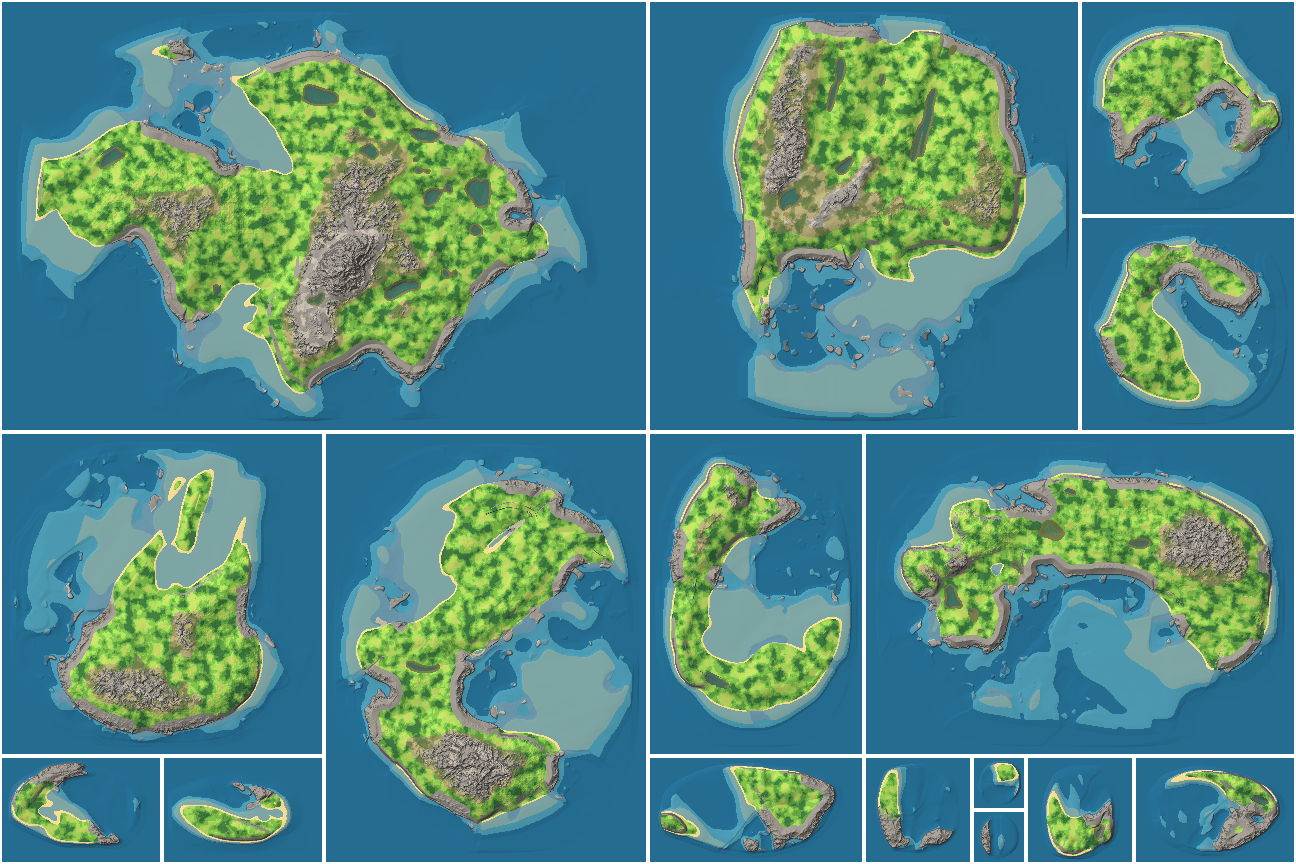
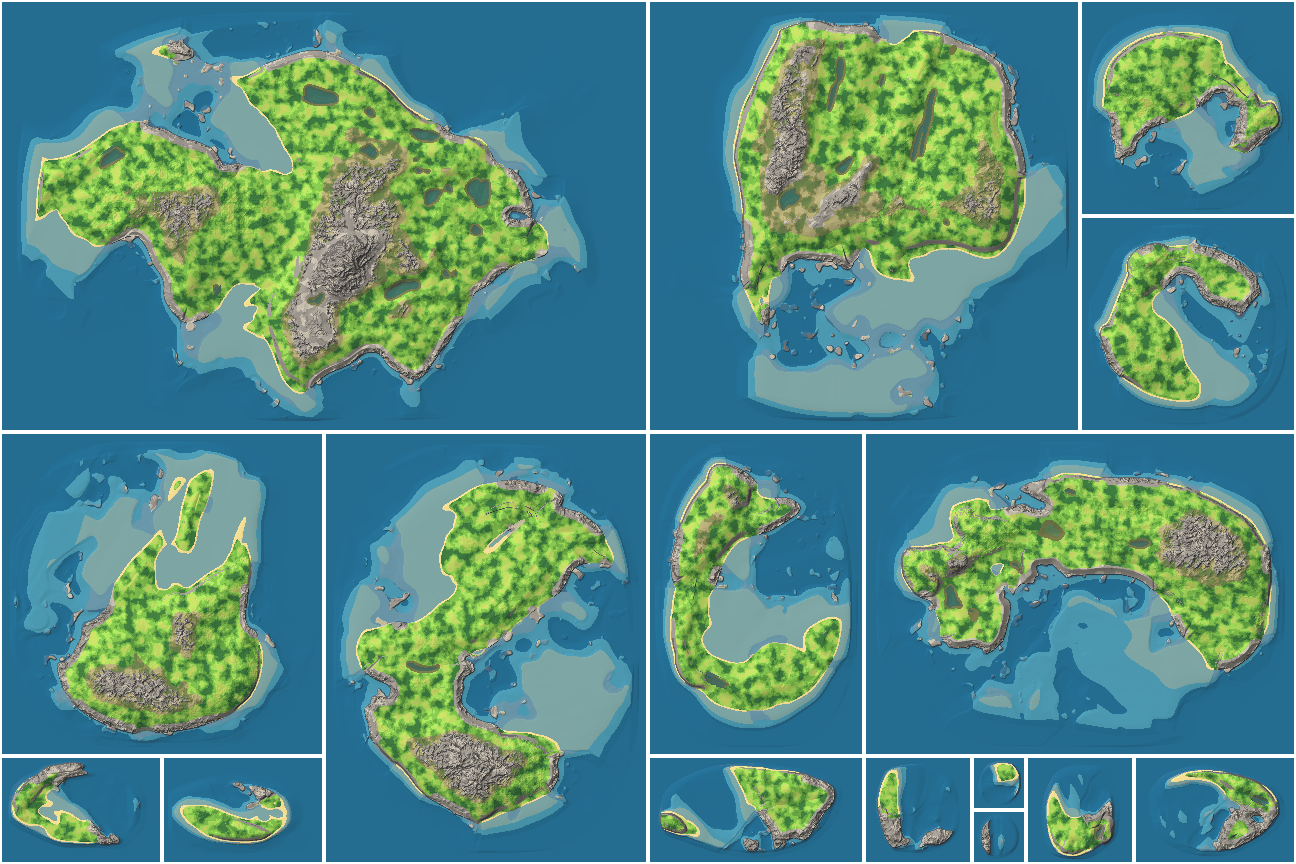
One spray for paint and relief, and crags that respect what stands near them
Review of the crag work found its seams, and this closes them:

The spray zone was derived twice — the palette scaled the reach by the
shore character with a wandered edge, the crag pass scaled amplitude
over the full reach with neither — so rock forms stood under grass
paint and the two could drift further with any retune. Both now read
one function, the paint as a threshold over the same weight the relief
carries, and the crag pass's mountain band reads the same wandered
height the parcel rows read. The painted collar also stopped being one
flat material: bare is bare, so it draws from the mountain row.

The cleft could out-cut the lake system's budget — its relief band is
sized to the detail stack alone — leaving ground below a tarn's
surface, drawn as standing water outside the basin. A tarn's surface
now caps the cut the way the sea's shore band does, and a drowned bank
is not reworked at all.

The strata's hard floor() was a true discontinuity, invisible to the
one-tile central differences behind the normals — paint and plants
read "flat" at the very lip of a sheer step. The tread now climbs
through a finite riser that leans with the ground under it.

The cleft's headroom share is a named constant, a new test pins the
shore-band margin the crag pass promises, and the docs that described
one consumer's shape as both's are rewritten. Digests re-recorded; the
layout digest is untouched; the collage redrawn.

diff --git a/crates/world/src/terrain.rs b/crates/world/src/terrain.rs
@@ -528,9 +528,8 @@ const GRAIN_RELIEF: f32 = 0.5;
 // and the whole part-terraced into strata — at amplitudes that compete with
 // the hills they stand on.
 //
-// See [`TerrainGenerator::crags`] for how the parts compose, and the
-// waterline guarantees ([`SHORE_TOP`] fade, bounded clefts, terraces that
-// cannot cross zero) that keep the coast the landform's — the lesson
+// See [`TerrainGenerator::crags`] for how the parts compose and the
+// waterline guarantees that keep the coast the landform's — the lesson
 // [`APRON_DRY`] already paid for.
 
 /// Wavelength of the crag backbone, in metres — the ridged field the spires
@@ -554,8 +553,13 @@ const CRAG_SHARP: f32 = 2.6;
 /// fine bands: a form shorter than the hills cannot contrast with them.
 const CRAG_SPIRE: f32 = 11.0;
 /// How deep the clefts between spires cut, in metres — bounded at each point
-/// by the headroom above the shore band, so no cleft ever reaches the water.
+/// by [`CRAG_HEADROOM`] of the headroom above the shore band, so no cleft
+/// ever reaches the water.
 const CRAG_CLEFT: f32 = 7.0;
+/// The share of that headroom a cleft may spend. The margin the remainder
+/// leaves is small and nothing downstream would notice a retune eating it,
+/// which is why `crags_never_reach_the_shore_band` pins it.
+const CRAG_HEADROOM: f32 = 0.8;
 /// The strata: bare rock is pulled part of the way onto terraces this many
 /// metres apart. Horizontal bedding is the one regularity real rock wears,
 /// and with flat-shaded facets a level tread against a sheer riser is the
@@ -564,6 +568,14 @@ const CRAG_CLEFT: f32 = 7.0;
 const CRAG_STEP: f32 = 2.7;
 /// How far toward those terraces the ground is pulled, 0 none to 1 fully.
 const CRAG_STRATA: f32 = 0.65;
+/// The slice of each strata interval the riser climbs through, as a share of
+/// [`CRAG_STEP`]. A hard `floor` was tried and is a true discontinuity, which
+/// the one-tile central differences behind [`TerrainGenerator::normal`]
+/// cannot see — so paint and plants read "flat" at the very lip of a sheer
+/// step. A finite riser leans with the ground underneath it instead: broad
+/// and visible where the backbone is gentle, near-sheer where it is already
+/// steep and painted rock anyway.
+const CRAG_RISER: f32 = 0.3;
 /// Height above which the crag pass is fully faded in, in metres. The fade
 /// starts at [`SHORE_TOP`], so the waterline and the drawn shore stay the
 /// landform's. Long on purpose: at 4.0 the first metres behind a rocky
@@ -756,7 +768,10 @@ const COAST_GRID: f32 = 4.0;
 /// rock is a good deal smaller than this; much below it and they stop being
 /// wide enough to make a facet.
 const SKERRY_SCALE: f32 = 34.0;
-/// How far a skerry stands out of the water, in metres.
+/// How far a skerry stands out of the water, in metres, as the skerry pass
+/// itself leaves it. The crag pass runs after and builds on the barest of
+/// them — the sea's rocks get the same treatment as everything else the
+/// spray strips — so the tallest stacks finish near twice this.
 const SKERRY_HEIGHT: f32 = 2.5;
 
 /// Height, in metres, up to which ground is drawn as shore rather than as what
@@ -765,27 +780,27 @@ const SKERRY_HEIGHT: f32 = 2.5;
 /// band of colour up the rocky shores and the cliffs as well.
 const SHORE_TOP: f32 = 0.6;
 
-/// How far in from the waterline the sea keeps the ground bare, in metres,
-/// where the coast is at its most exposed. The shore character scales it:
-/// nothing in from a beach, the full reach in from a cliff. Height is what the
-/// bands above [`SHORE_TOP`] read, so distance is what this has to be — the
-/// same rule that holds the mountains off the coast holds the grass off the
-/// spray, and a scrap of land whose every point is within reach goes bare
-/// *everywhere*, which is what keeps a skerry's flat top and a one-chunk
-/// islet from coming out as lawns standing in the sea.
-///
-/// The character's say is squared before it scales the reach: read linearly,
-/// every middling-rocky stretch wore a collar half this wide and a big island
-/// came out sitting in a stone bowl. Squared, the ordinary rocky shore keeps
-/// a few metres of bare lip and the full reach is kept for the coasts that
-/// have actually earned a cliff.
+/// How far in from the waterline the sea has any say over what grows, in
+/// metres. Height is what the bands above [`SHORE_TOP`] answer to, so
+/// distance is what the spray has to be — the rule that holds the mountains
+/// off the coast, holding the grass off the spray — and a scrap of land
+/// whose every point is within reach is sprayed *everywhere*, which is what
+/// keeps a skerry's flat top and a one-chunk islet from coming out as lawns
+/// standing in the sea. Read only through [`TerrainGenerator::sprayed`].
 const SPRAY_REACH: f32 = 30.0;
 
-/// How far the spray band's inland edge wanders off the pure distance, in
-/// metres — the same job [`BAND_WANDER`] does for the treeline, and driven by
-/// the same field, because a contour parallel to the coast is as mechanical a
-/// line as a level one.
+/// How far the spray's edge wanders off the pure distance, in metres — the
+/// same job [`BAND_WANDER`] does for the treeline, and driven by the same
+/// field, because a contour parallel to the coast is as mechanical a line as
+/// a level one.
 const SPRAY_WANDER: f32 = 10.0;
+
+/// Where the spray weight is cut into painted bare rock — the paint's
+/// threshold over [`TerrainGenerator::sprayed`], whose doc says why the two
+/// consumers share one number. Falls at about nine metres of collar on an
+/// ordinary rocky shore and twenty on a cliff coast, and a beach's zero
+/// weight never reaches it.
+const SPRAY_BARE: f32 = 0.2;
 
 /// How far a lake's reed margin reaches from its own edge, in metres, on both
 /// sides of it — so the fringe is [`LAKE_MARGIN`] of wet ground and the same
@@ -1786,7 +1801,7 @@ impl TerrainGenerator {
         // Everything above is the same landscape whatever the coast does with
         // it; the rest of this decides what happens where it meets the sea.
         let distance = self.coast.metres(wx, wz);
-        let shore = self.shore_character(wx, wz);
+        let shore = self.shore_character(wx, wz, distance);
 
         // Faded out inland rather than cut off at a height. Most of this map's
         // land is under [`CLIFF_HEIGHT`] — it is a gentle island — so a rule
@@ -1798,15 +1813,36 @@ impl TerrainGenerator {
         // The crag pass reworks the *finished* ground — see the constants'
         // header — because the bare coast it exists for is mostly shaped by
         // the coastal pass above. Where it stands is where the palette bares
-        // rock: the spray zone, read from the same character and distance the
-        // paint reads, and the mountain band. Faded in above the shore, and
-        // calmed by lakes the way the rest of the detail is.
-        let bare = smoothstep(ROCKY_SHORE, CLIFF_SHORE, shore);
-        let sprayed = bare * bare * (1.0 - smoothstep(0.0, SPRAY_REACH, distance));
-        let barren = sprayed.max(smoothstep(MOOR_HEIGHT, MOUNTAIN_HEIGHT, h));
-        let cragging = barren * smoothstep(SHORE_TOP, CRAG_FULL, h) * lake_calm;
-        if cragging > 0.0 {
-            h = self.crags(wx, wz, h, cragging);
+        // rock: the spray weight is [`sprayed`], the same call the paint
+        // thresholds, and the mountain band is read off the same wandered
+        // height the parcel rows read — so relief and paint stray on one
+        // tide. Faded in above the shore and calmed by lakes like the rest
+        // of the detail; the outer test is only a cheap skip for the open
+        // sea and the lowland interior, where the weight is identically 0.
+        //
+        // [`sprayed`]: TerrainGenerator::sprayed
+        if distance < SPRAY_REACH + SPRAY_WANDER || h > MOOR_HEIGHT - BAND_WANDER {
+            let wander = self
+                .detail
+                .fbm(wx / BAND_SCALE - 53.0, wz / BAND_SCALE + 29.0, 4);
+            let barren = self.sprayed(distance, shore, wander).max(smoothstep(
+                MOOR_HEIGHT,
+                MOUNTAIN_HEIGHT,
+                h + BAND_WANDER * wander,
+            ));
+            let cragging = barren * smoothstep(SHORE_TOP, CRAG_FULL, h) * lake_calm;
+            if cragging > 0.0 {
+                let cragged = self.crags(wx, wz, h, cragging);
+                // A tarn's surface caps the cut the way the sea's shore band
+                // does — [`LAKE_RELIEF`] budgets only the detail stack, and a
+                // full cleft out-cuts it — and a drowned bank is not reworked
+                // at all: the bed keeps the shape the flood read.
+                h = match self.lakes.level(wx, wz) {
+                    Some(level) if h >= level => cragged.max(level),
+                    Some(_) => h,
+                    None => cragged,
+                };
+            }
         }
 
         h.max(-MAX_DEPTH)
@@ -1843,8 +1879,9 @@ impl TerrainGenerator {
     /// middle of every neck and strait. A distance field's slope is 1
     /// everywhere except approaching that crest, where it collapses — so the
     /// collapse *is* the detector, and the displacement is faded out on it.
-    fn shore_character(&self, wx: f32, wz: f32) -> f32 {
-        let distance = self.coast.metres(wx, wz);
+    /// `distance` is [`CoastDistance::metres`] at the same point, which every
+    /// caller already holds.
+    fn shore_character(&self, wx: f32, wz: f32, distance: f32) -> f32 {
         let step = COAST_GRID;
         let gradient = Vec2::new(
             self.coast.metres(wx + step, wz) - self.coast.metres(wx - step, wz),
@@ -1867,7 +1904,26 @@ impl TerrainGenerator {
 
     /// Which of the three kinds of coast the character field lands on here.
     fn shore(&self, wx: f32, wz: f32) -> Shore {
-        Shore::of(self.shore_character(wx, wz))
+        let distance = self.coast.metres(wx, wz);
+        Shore::of(self.shore_character(wx, wz, distance))
+    }
+
+    /// How hard the sea's spray bears on this ground, 0 untouched to 1 fully
+    /// bare: the shore character's say, squared, fading out over
+    /// [`SPRAY_REACH`] of wandered distance from the waterline.
+    ///
+    /// The one reading of the spray zone. The palette cuts this at
+    /// [`SPRAY_BARE`] to paint the collar and the crag pass reworks ground by
+    /// it, so where bare rock is painted and where rock forms stand cannot
+    /// drift apart — they are the same number. The square is what keeps a
+    /// middling-rocky stretch from wearing a collar half the reach wide; the
+    /// `wander` is the band field both callers already hold, so the collar's
+    /// edge strays off the coast-parallel the way the treeline strays off the
+    /// level.
+    fn sprayed(&self, distance: f32, character: f32, wander: f32) -> f32 {
+        let bare = smoothstep(ROCKY_SHORE, CLIFF_SHORE, character);
+        let seaward = distance + SPRAY_WANDER * wander;
+        bare * bare * (1.0 - smoothstep(0.0, SPRAY_REACH, seaward))
     }
 
     /// Bare ground reworked into rock forms — see the [`CRAG_SCALE`] header
@@ -1879,9 +1935,9 @@ impl TerrainGenerator {
     /// bedding does, rather than each spire carrying its own private steps.
     ///
     /// The waterline holds by construction and not by the fade alone: a cleft
-    /// is bounded by most of the headroom above the shore band, and a terrace
-    /// tread is a floor toward zero, which for ground above the water is never
-    /// below it.
+    /// spends at most [`CRAG_HEADROOM`] of the headroom above the shore band,
+    /// and the strata pull toward treads that are never below zero —
+    /// `crags_never_reach_the_shore_band` pins the margin that leaves.
     fn crags(&self, wx: f32, wz: f32, h: f32, weight: f32) -> f32 {
         let qx = self
             .detail
@@ -1893,10 +1949,16 @@ impl TerrainGenerator {
 
         let ridge = self.ridges.ridged(cx / CRAG_SCALE, cz / CRAG_SCALE, 3);
         let spire = pow(ridge, CRAG_SHARP) * CRAG_SPIRE;
-        let cleft = (CRAG_CLEFT * (1.0 - ridge)).min((h - SHORE_TOP).max(0.0) * 0.8);
+        let cleft = (CRAG_CLEFT * (1.0 - ridge)).min((h - SHORE_TOP).max(0.0) * CRAG_HEADROOM);
         let jagged = h + (spire - cleft) * weight;
 
-        let tread = (jagged / CRAG_STEP).floor() * CRAG_STEP;
+        let steps = jagged / CRAG_STEP;
+        let riser = smoothstep(
+            0.5 - CRAG_RISER / 2.0,
+            0.5 + CRAG_RISER / 2.0,
+            steps.fract(),
+        );
+        let tread = (steps.floor() + riser) * CRAG_STEP;
         jagged + (tread - jagged) * CRAG_STRATA * weight
     }
 
@@ -1994,6 +2056,10 @@ impl TerrainGenerator {
             // cliff's underwater face, and one Shallow cell there is a
             // ten-metre streak of turquoise up the rock, because a cell's
             // colour is stretched over however much face its corners span.
+            // Dark at [`ROCK_SLOPE`] where the dry cascade waits for
+            // [`CLIFF_SLOPE`], deliberately: below the waterline rock is wet
+            // and wet rock is dark, so the flip to the lighter dry grey at
+            // the shore band is a tide line, not a seam.
             if slope > ROCK_SLOPE {
                 return Material::RockDark;
             }
@@ -2033,19 +2099,6 @@ impl TerrainGenerator {
             .detail
             .fbm(wx / BAND_SCALE - 53.0, wz / BAND_SCALE + 29.0, 4);
 
-        // Salt spray, before anything is allowed to grow — see [`SPRAY_REACH`].
-        // The character read is behind the cheap distance test, so land past
-        // any possible reach never pays for it. Painted [`Material::Rock`] and
-        // never `RockDark`, which stays the slope tests' own — a dark facet
-        // still always means a crag.
-        let seaward = self.coast.metres(wx, wz) + SPRAY_WANDER * wander;
-        if seaward < SPRAY_REACH {
-            let bare = smoothstep(ROCKY_SHORE, CLIFF_SHORE, self.shore_character(wx, wz));
-            if seaward < SPRAY_REACH * bare * bare {
-                return Material::Rock;
-            }
-        }
-
         // The height everything reads its band off.
         let banded = height + BAND_WANDER * wander;
 
@@ -2084,6 +2137,21 @@ impl TerrainGenerator {
         } else {
             4
         };
+
+        // Salt spray, before anything is allowed to grow: the one spray
+        // weight — [`TerrainGenerator::sprayed`], the same call the crag pass
+        // works ground by — cut at [`SPRAY_BARE`]. The character read hides
+        // behind the cheap distance test, so the interior never pays for it.
+        // Painted from the mountain row rather than as one material: bare is
+        // bare, one palette row, and a collar tens of metres wide in a single
+        // flat colour was exactly the slab the patchwork exists to prevent.
+        let distance = self.coast.metres(wx, wz);
+        if distance < SPRAY_REACH + SPRAY_WANDER {
+            let character = self.shore_character(wx, wz, distance);
+            if self.sprayed(distance, character, wander) > SPRAY_BARE {
+                return MOUNTAIN_PARCELS[bucket];
+            }
+        }
 
         // Which row of the palette that parcel is drawn from — the only thing
         // height decides up here.
@@ -3598,8 +3666,8 @@ mod tests {
         // which is what lets this pass on more than the machine that recorded
         // it.
         let cases = [
-            (20_040_112u32, UVec2::new(4, 4), 0x1E9C_7602_7EDA_AFB7u64),
-            (99, UVec2::new(3, 2), 0x497F_BEBA_FE22_CCCEu64),
+            (20_040_112u32, UVec2::new(4, 4), 0x14DC_93A4_566B_C197u64),
+            (99, UVec2::new(3, 2), 0xC171_0209_1C7A_C7FBu64),
         ];
 
         for (seed, chunks, expected) in cases {
@@ -3781,6 +3849,40 @@ mod tests {
             (0.05..0.7).contains(&rocky),
             "rocky shores came out {:.0}% steep, which is a beach or a cliff",
             rocky * 100.0
+        );
+    }
+
+    #[test]
+    fn crags_never_reach_the_shore_band() {
+        // The crag pass promises the drawn shore stays the landform's: however
+        // hard it cuts, ground that entered above the shore band leaves above
+        // it. That holds by arithmetic — the cleft spends [`CRAG_HEADROOM`] of
+        // the headroom, the strata pull [`CRAG_STRATA`] of the way to a tread
+        // — but the margin it leaves is centimetres, and nothing else goes red
+        // when a retune of any of the four constants eats it. So this sweeps
+        // the worst case the fade allows: the weight at each height is the
+        // most the caller can ever hand crags(), and the positions sweep the
+        // ridge and warp fields through their range.
+        let (_, gen) = generator(4, 4, 20_040_112);
+
+        let mut clearance = f32::INFINITY;
+        for iz in 0..32 {
+            for ix in 0..32 {
+                let (wx, wz) = (ix as f32 * 37.3 - 600.0, iz as f32 * 41.7 - 650.0);
+                let mut h = SHORE_TOP + 0.01;
+                while h < 60.0 {
+                    let weight = smoothstep(SHORE_TOP, CRAG_FULL, h);
+                    clearance = clearance.min(gen.crags(wx, wz, h, weight) - SHORE_TOP);
+                    h += 0.19;
+                }
+            }
+        }
+
+        println!("worst crag clearance over the shore band: {clearance:.3} m");
+        assert!(
+            clearance > 0.0,
+            "a crag cut reached the shore band, by {:.3} m",
+            -clearance
         );
     }
 

diff --git a/crates/world/src/archipelago.rs b/crates/world/src/archipelago.rs
@@ -1401,9 +1401,9 @@ mod tests {
             "layout digests to {layout:#018X}, ground to {ground:#018X}, sent to {sent:#018X}"
         );
         assert_eq!(layout, 0xF310_7FA9_D557_237C, "the layout changed");
-        assert_eq!(ground, 0x5759_A689_9DB8_88EB, "the ground changed");
+        assert_eq!(ground, 0x49FB_11E9_A669_3026, "the ground changed");
         assert_eq!(
-            sent, 0xAC2E_E2D1_A9FE_DBC0,
+            sent, 0x61F8_B02B_D132_33B3,
             "what a client would be sent changed"
         );
     }

diff --git a/crates/world/src/bananas.rs b/crates/world/src/bananas.rs
@@ -228,8 +228,8 @@ mod tests {
         // what a seed means.
         let recorded = [
             (20_040_112u32, 0x82CA_8E64_6F17_FC66u64),
-            (1, 0x302C_729B_F1E5_C167),
-            (7, 0x5495_30BE_6D2C_210F),
+            (1, 0x48EF_B68C_665B_9B9D),
+            (7, 0x7C4E_5C49_E727_C4C9),
         ];
         let got: Vec<(u32, u64, usize)> = recorded
             .iter()

diff --git a/crates/world/src/mangroves.rs b/crates/world/src/mangroves.rs
@@ -249,7 +249,7 @@ mod tests {
         let recorded = [
             (20_040_112u32, 0x5E7B_DBD0_BC5D_DEBAu64),
             (1, 0xDBBD_1689_3CD7_0BA1),
-            (7, 0xB4A8_94B7_1F64_F315),
+            (7, 0xF8F7_48C3_FA15_1B58),
         ];
         let got: Vec<(u32, u64, usize)> = recorded
             .iter()
